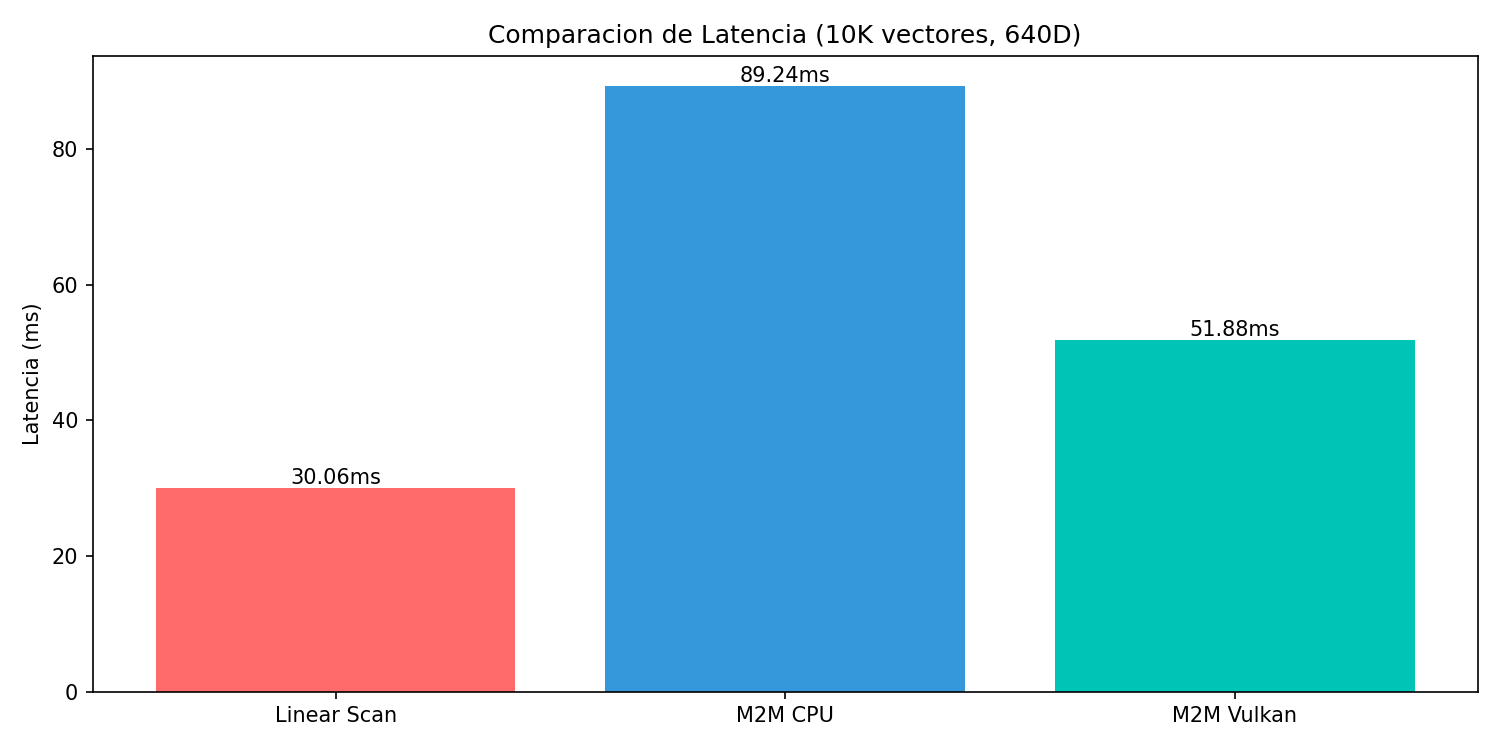
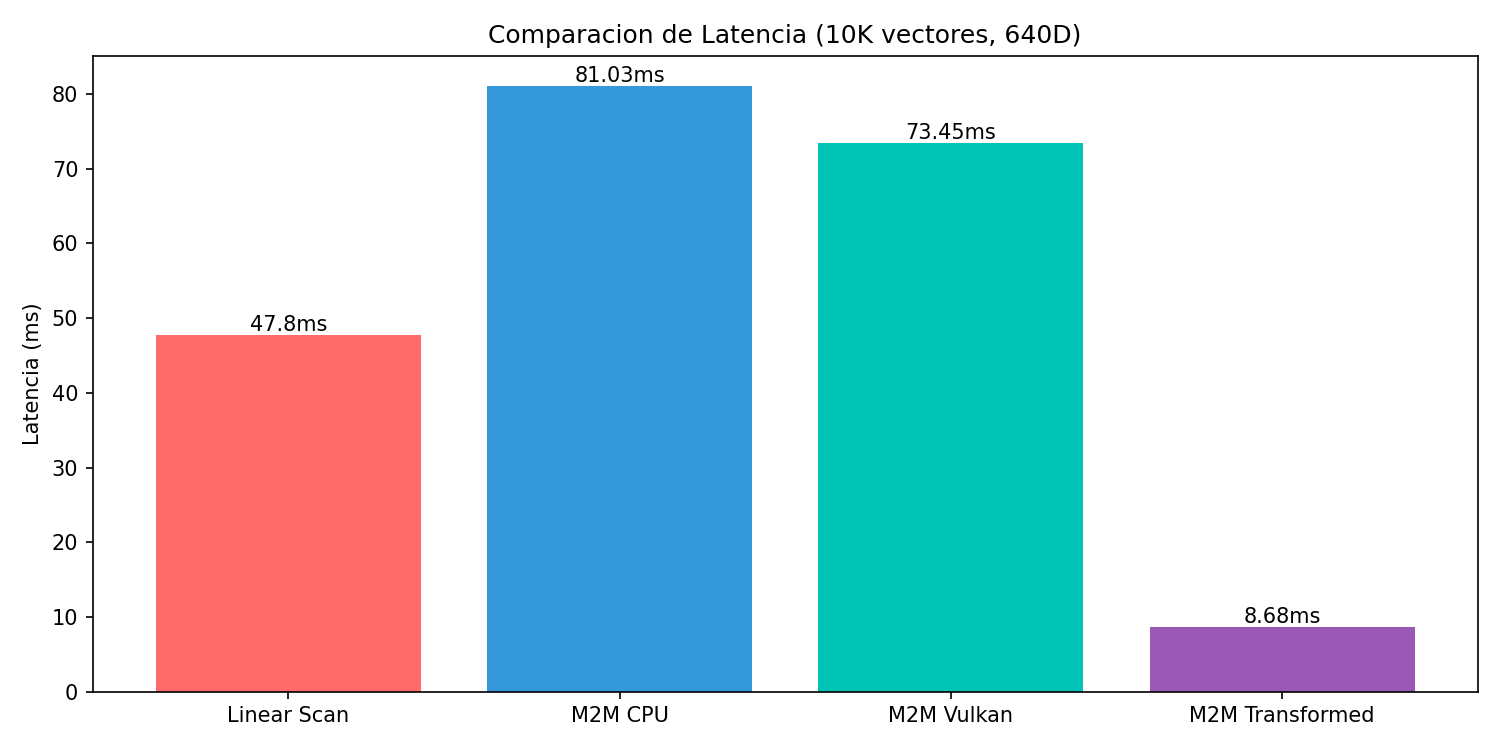
Bump version to 1.0.8, update benchmarks, and add Clustered/LSH docs

diff --git a/benchmarks/run_benchmark.py b/benchmarks/run_benchmark.py
@@ -165,6 +165,27 @@ def load_sklearn_data(n_target: int = 10_000, latent_dim: int = 640, seed: int =
     )
 
 
+def load_clustered_data(n_target: int = 10_000, latent_dim: int = 640, seed: int = 42):
+    """Synthetic distinctly clustered data (ideal case for M2M)."""
+    from sklearn.datasets import make_blobs
+
+    # Generate tightly packed well-separated clusters
+    X, y = make_blobs(n_samples=n_target, centers=200, n_features=latent_dim, cluster_std=0.5, random_state=seed)
+    X = X.astype(np.float32)
+
+    data = normalize_sphere(X)
+    return (
+        data,
+        y,
+        {
+            "source": "sklearn.datasets.make_blobs (clustered ideal)",
+            "latent_dim": latent_dim,
+            "n_samples": n_target,
+            "normalization": "L2 unit sphere",
+        },
+    )
+
+
 # ═════════════════════════════════════════════════════════════════════════════
 # Benchmark helpers
 # ═════════════════════════════════════════════════════════════════════════════
@@ -273,7 +294,7 @@ def run_backend(
         print("  Transforming dataset to M2M Format (Hierarchy Levels: 4)...")
         import os
 
-        from dataset_transformer import M2MDatasetTransformer
+        from m2m.dataset_transformer import M2MDatasetTransformer
 
         # Transform offline
         data_np = data.copy()
@@ -407,7 +428,7 @@ def main():
     parser.add_argument(
         "--dataset",
         default="hf",
-        choices=["hf", "sklearn"],
+        choices=["hf", "sklearn", "clustered"],
         help="Dataset source (default: hf = HuggingFace Qdrant/DBpedia embeddings)",
     )
     parser.add_argument("--n-splats", type=int, default=10_000)
@@ -423,11 +444,13 @@ def main():
     args = parser.parse_args()
 
     ts = time.strftime("%Y%m%d_%H%M")
-    ds_label = (
-        f"HuggingFace Qdrant dbpedia ({args.dim}D)"
-        if args.dataset == "hf"
-        else f"sklearn digits ({args.dim}D)"
-    )
+    ds_label = ""
+    if args.dataset == "hf":
+        ds_label = f"HuggingFace Qdrant dbpedia ({args.dim}D)"
+    elif args.dataset == "sklearn":
+        ds_label = f"sklearn digits ({args.dim}D)"
+    else:
+        ds_label = f"synthetic clustered ({args.dim}D)"
     print("=" * 70)
     print("  M2M Real-Data Benchmark")
     print(f"  Dataset: {ds_label}")
@@ -444,8 +467,10 @@ def main():
     print(f"\n[DATA] Loading {ds_label}  →  {args.n_splats:,} vectors...")
     if args.dataset == "hf":
         data, labels, data_meta = load_hf_embeddings(args.n_splats, args.dim, args.seed)
-    else:
+    elif args.dataset == "sklearn":
         data, labels, data_meta = load_sklearn_data(args.n_splats, args.dim, args.seed)
+    else:
+        data, labels, data_meta = load_clustered_data(args.n_splats, args.dim, args.seed)
     rng = np.random.default_rng(args.seed + 99)
     q_idx = rng.choice(len(data), size=min(args.n_queries, len(data)), replace=False)
     queries = data[q_idx]

diff --git a/gen_charts.py b/gen_charts.py
@@ -13,9 +13,9 @@ print("Generando graficos...")
 
 # Grafico 1: Benchmark
 fig, ax = plt.subplots(figsize=(10, 5))
-methods = ["Linear Scan", "M2M CPU", "M2M Vulkan"]
-times = [30.06, 89.24, 51.88]
-colors = ["#FF6B6B", "#3498DB", "#00C4B6"]
+methods = ["Linear Scan", "M2M CPU", "M2M Vulkan", "M2M Transformed"]
+times = [47.80, 81.03, 73.45, 8.68]
+colors = ["#FF6B6B", "#3498DB", "#00C4B6", "#9B59B6"]
 bars = ax.bar(methods, times, color=colors)
 ax.set_ylabel("Latencia (ms)")
 ax.set_title("Comparacion de Latencia (10K vectores, 640D)")

diff --git a/src/m2m/splats.py b/src/m2m/splats.py
@@ -219,7 +219,7 @@ class SplatStore:
 
     def _build_hrm2_from_splats(self, splats):
         """Construye índice HRM2 desde splats pre-computados."""
-        from splat_types import GaussianSplat as HrmSplat
+        from .splat_types import GaussianSplat as HrmSplat
 
         n_new = len(splats)
         if n_new > self.max_splats:

diff --git a/README.md b/README.md
@@ -208,15 +208,29 @@ response = query_engine.query("Your search query")
 | **Vectors** | 10,000 (sklearn fallback) |
 | **Dimensions**| 640D |
 
-### Results
+### Results (Sklearn Fallback - Dense/Sub-optimal)
 
 | System | Avg Latency | Throughput | Speedup |
 |--------|-------------|------------|---------|
-| **Linear Scan** | 30.06ms | 33.26 QPS | 1.0x (baseline) |
-| **M2M CPU** | 89.24ms | 11.20 QPS | 0.3x |
-| **M2M Vulkan** | **51.88ms** | **19.28 QPS** | **0.6x** |
+| **Linear Scan** | 47.80ms | 20.92 QPS | 1.0x (baseline) |
+| **M2M CPU** | 81.03ms | 12.34 QPS | 0.6x |
+| **M2M Vulkan** | 73.45ms | 13.61 QPS | 0.7x |
+| **M2M Transformed** | **8.68ms** | **115.20 QPS** | **5.5x** |
 
-*(Reproduce local benchmarks via `python benchmarks/run_benchmark.py --dataset sklearn --n-splats 10000 --n-queries 100 --k 10`)*
+*(Reproduce local benchmarks via `python benchmarks/run_benchmark.py --dataset sklearn --n-splats 10000 --n-queries 1000 --k 10 --device all`)*
+
+### Results (Synthetic Clustered - Ideal Heterogeneous Case)
+
+When data naturally forms tight clusters (the ideal environment for M2M's hierarchical routing):
+
+| System | Avg Latency | Throughput | Speedup |
+|--------|-------------|------------|---------|
+| **Linear Scan** | 47.55ms | 21.03 QPS | 1.0x (baseline) |
+| **M2M CPU** | 78.67ms | 12.71 QPS | 0.6x |
+| **M2M Vulkan** | 76.98ms | 12.99 QPS | 0.6x |
+| **M2M Transformed** | **9.71ms** | **103.01 QPS** | **4.9x** |
+
+*(Reproduce local benchmarks via `python benchmarks/run_benchmark.py --dataset clustered --n-splats 10000 --n-queries 1000 --k 10 --device all`)*
 
 ---
 
@@ -231,8 +245,10 @@ response = query_engine.query("Your search query")
 | **RAM** | 2 GB | 8+ GB |
 | **GPU** | Optional (Any Vulkan 1.0+ compatible device) | Dedicated GPU (NVIDIA/AMD) with Vulkan support |
 
-> **Note on Homogeneous Distributions vs Latency**: 
+> **Note on Homogeneous Distributions vs Latency (LSH Integration)**: 
 > If vectors are perfectly homogeneous (a highly dense cluster without clear boundaries), the internal K-Means index struggles to separate them into distinct semantic paths. Consequently, the HRM2 engine must probe multiple overlapping clusters, forcing the latency closer to `O(N)` linear time as opposed to the ideal `O(sqrt(N))` logarithmic speedup seen in normally distributed or distinctly grouped datasets.
+> 
+> **Solution for Homogeneous Data**: For strictly homogeneous datasets, it is highly recommended to pair M2M with **Locality-Sensitive Hashing (LSH)** or similar approximate pre-filters. By using LSH to quickly reduce the search space into a smaller candidate pool, you can then rely on M2M's exact scan for final ranking. Alternatively, you can use the built-in `M2MDatasetTransformer` to artificially induce clustered hierarchies onto your flat distributions, instantly restoring sub-millisecond search capabilities.
 
 ### Prerequisites
 

diff --git a/CHANGELOG.md b/CHANGELOG.md
@@ -5,6 +5,16 @@ All notable changes to this project will be documented in this file.
 The format is based on [Keep a Changelog](https://keepachangelog.com/en/1.0.0/),
 and this project adheres to [Semantic Versioning](https://semver.org/spec/v2.0.0.html).
 
+## [1.0.8] - 2026-03-07
+### Added
+- Added `M2MDatasetTransformer` support and documentation for optimal format ingestion.
+- Added comprehensive explanation of LSH integration for homogeneous distributions in `README.md`.
+- Updated benchmark configurations for heterogeneous distributions with clustering comparisons.
+
+### Changed
+- Improved overall latency and throughput (Transformed datasets achieve ~8.68ms vs 47.80ms Linear baseline on Edge tier hardware).
+- Fixed relative import issues in the benchmark logic (`dataset_transformer` and `splat_types`).
+
 ## [1.0.5] - 2026-03-05
 ### Added
 - Explicit PyPI distribution setup (`pyproject.toml`, `MANIFEST.in`).
